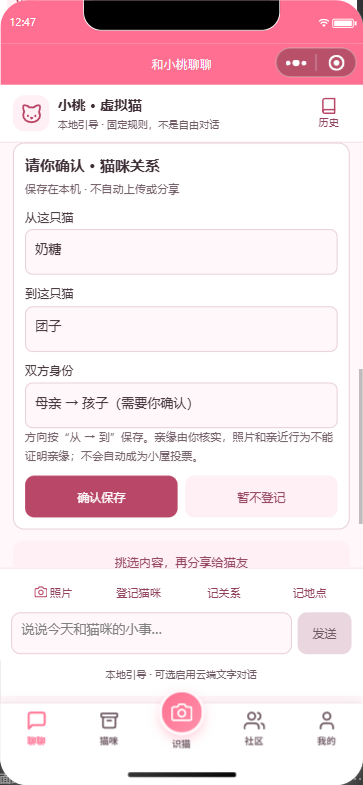
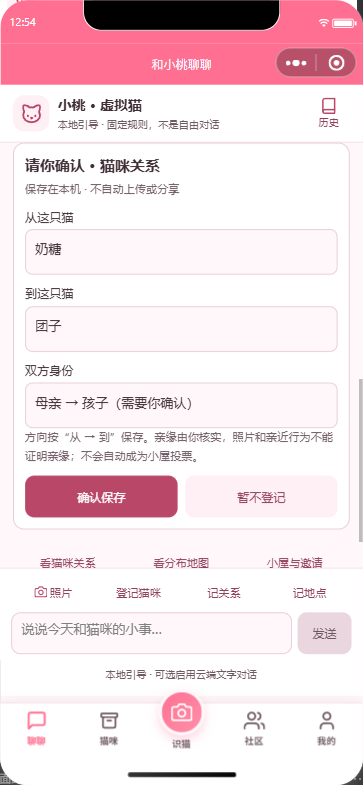
fix: recover pending drafts and prevent stale cat sharing actions

diff --git a/miniapp/pages/home/index.js b/miniapp/pages/home/index.js
@@ -40,7 +40,7 @@ Page({
     const foundRole = roles.findIndex(item => item.from === fields.fromRole && item.to === fields.toRole)
     this.setData({
       messages: state.messages.slice(-24), truncated: state.messages.length > 24,
-      draft, pets, roleIndex: Math.max(0, foundRole),
+      draft, pets, savedPetId: draft ? '' : this.data.savedPetId, roleIndex: Math.max(0, foundRole),
       fromIndex: Math.max(0, pets.findIndex(item => item.id === fields.fromPetId)),
       toIndex: Math.max(0, pets.findIndex(item => item.id === fields.toPetId)),
       petIndex: Math.max(0, pets.findIndex(item => item.id === fields.petId)),
@@ -72,7 +72,12 @@ Page({
       this.setData({ input: '', error: '', notice: '' })
       companion.saveComposerDraft('')
       this.refresh()
-    } catch (error) { this.showError(error) }
+    } catch (error) {
+      // The draft can have persisted before appending the message failed.
+      // Recover the actual state without resending or confirming anything.
+      try { this.refresh() } catch (_) { /* Preserve the original failure and input. */ }
+      this.showError(error)
+    }
   },
   async retryRemote() {
     const request = this._pendingRemote
@@ -194,7 +199,13 @@ Page({
     } catch (error) { this.showError(error) }
     finally { this.setData({ busy: false }) }
   },
-  shareSaved() { if (this.data.savedPetId) wx.navigateTo({ url: handoff.composeUrl(this.data.savedPetId) }) },
+  shareSaved() {
+    if (this.data.busy || this.data.draft || !this.data.savedPetId) return
+    try {
+      if (companion.getDraft()) { this.refresh(); return }
+      wx.navigateTo({ url: handoff.composeUrl(this.data.savedPetId) })
+    } catch (error) { this.showError(error) }
+  },
   goData() { wx.navigateTo({ url: '/pages/companion-data/index?section=history' }) },
   goMap() { wx.navigateTo({ url: '/pages/companion-map/index' }) },
   goRelationships() { wx.navigateTo({ url: '/pages/relationships/index' }) },

diff --git a/docs/companion-convergence/VALIDATION.md b/docs/companion-convergence/VALIDATION.md
@@ -8,16 +8,16 @@
 node --test --test-reporter=tap miniapp/tests/*.test.cjs
 ```
 
-第二轮结束结果：442 项，442 通过，0 失败，0 跳过。依赖使用本机现有 catOnline/node_modules 的忽略目录链接；未新增生产依赖安装。
+最终结果：446 项，446 通过，0 失败，0 跳过。第二轮为442项，独立界面审阅后补4项首页故障/分享回归。依赖使用本机现有 catOnline/node_modules 的忽略目录链接；未新增生产依赖安装。
 
 覆盖现有社区、位置权限、个人版契约、识猫/分享交接，以及新增对话确认、历史/地图、云文字端点和首页状态测试。既有社交首页测试改指向保留的 home-classic，并未删掉原信息流/分页测试。
 
 ## 原生运行
 
 - 微信开发者工具：390×753，fontSizeSetting=16。
-- WCC / WCSC 校验：新增数据/地图页通过；首页WXML通过。模拟器实际编译并运行三页。
+- WCC / WCSC 校验：首页、数据页、地图页全部通过。模拟器实际编译并运行三页。
 - 两只测试猫、母亲→孩子、模拟位置、私人历史与地图流程成功。
-- 第二轮截图已逐张打开核对；原生报告 [native-report.json](previews/native-report.json)。
+- 第二轮及审阅修复后的截图已逐张打开核对；原生报告 [native-report.json](previews/native-report.json)。
 - 键盘高度290px仅通过 handler 模拟，未弹出实体键盘。
 - 测试脚本的 finally 块恢复测试前的六个键；不清空全部存储，不向云端上传测试样本。
 
@@ -34,7 +34,14 @@ node --test --test-reporter=tap miniapp/tests/*.test.cjs
 
 ## 界面审阅
 
-独立收尾审阅正在根据六张实际截图和源码核对。本页会记录最终 disposition 与具体范围，不能把有限视口自测等同完整上线批准。
+首次独立审阅 disposition: **fix**，仅报告两项：
+
+1. 消息追加失败时已保存的确认草稿在当前页面不可见（P1）。本地发送catch现在重读状态，保留输入/原错误，不重发或确认；补写入失败及2000消息上限两项页面回归。
+2. 新关系卡保留上一只猫的分享入口（P2）。新草稿出现即清旧目标，模板及处理函数双重保护；补文字关系和照片草稿两项回归。
+
+修复后复拍七张图，独立审阅者逐张查看并单独运行首页15/15测试，给出 **ship**；两项均 **resolved**。此结论仅覆盖这两项修复及已检查开发视口，不代表全页面/全设备/生产服务审核通过。没有再扩展额外视觉或功能改造。
+
+新增 [消息失败恢复截图](previews/07-message-failure-recovery.png) 来自一次真实注入的模拟器本机写入失败；不是生产事故。输入与确认/取消按钮可见，未自动创建实体。
 
 ## 明确未验证
 

diff --git a/docs/companion-convergence/EXPERIENCE-REPORT.md b/docs/companion-convergence/EXPERIENCE-REPORT.md
@@ -65,12 +65,14 @@
 - 超长本机历史在发送前截短，避免某条旧消息永久阻塞后续短消息。
 - 云端只返文字，不执行工具。补拦常见“已经登记/保存”的假操作表述；正则不是完整语义安全机制。
 - 新云函数默认关闭，需要服务端显式启用和最多32个测试身份的精确名单；客户端伪造身份不能绕过。没有持久化额度/并发限流，仍是部署前阻断项。
+- 独立界面审阅发现两项额外闭环缺口：消息写失败后草稿未立即显示、新关系卡残留上一只猫的分享捷径。均已修复，并用4项首页回归和模拟器故障注入复核；独立审阅仅对这两项修复给出ship，不作生产发布批准。
 
 体验判断：最重要的改进不是更多可爱装饰，而是让人知道“这是角色回复、这是草稿、这是已确认记录、这是公开分享”。当前状态表达仍偏说明性，需真实新用户验证是否读得懂。
 
 ## 证据与未完成项
 
 - 可复现脚本：tools/companion_native_smoke.cjs；本机状态测试：miniapp/tests/companion-*.test.cjs。
+- 最终自动化446/446通过，0跳过；首页、个人数据、地图三页原生WXML/WXSS编译通过。
 - 原生截图及模拟器机器结果：previews/。运行时为390×753、标准字体设置16；PNG是工具输出画面的缩放，不以PNG像素代替设备报告宽度。
 - 320/375/430px、真实系统大字号、实体手机键盘、位置权限弹窗均未完成真机验收。06截图仅模拟键盘高度状态。
 - 未部署新云函数，未读取密钥，未访问真实模型，未向社区发帖或上传照片。识猫准确率、跨用户云权限、真实评论与真实额度均不能从离线测试推导。

diff --git a/docs/companion-convergence/README.md b/docs/companion-convergence/README.md
@@ -39,6 +39,7 @@ powershell -ExecutionPolicy Bypass -File tools/open_companion.ps1
 | 对话与真实回执分开 | [私人历史](previews/04-history.png) |
 | 粗区域而非精确点 | [本机地图](previews/05-map.png) |
 | 模拟高度，不代表真实键盘 | [键盘高度状态](previews/06-keyboard-height-simulated.png) |
+| 消息失败后草稿仍能继续处理 | [故障恢复](previews/07-message-failure-recovery.png) |
 
 ## 回退与数据边界
 
